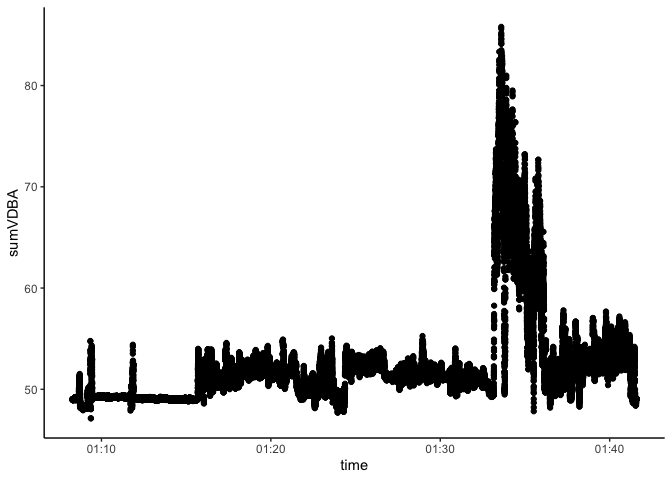
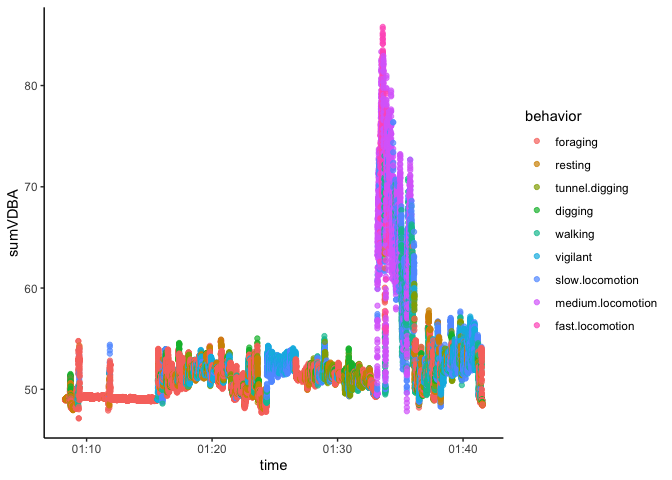
more read me

diff --git a/README.md b/README.md
@@ -25,7 +25,7 @@ You can install the development version of rabbit from
 
 ## Example
 
-This is a basic example which shows you how to solve a common problem:
+This is a basic example:
 
 ``` r
 library(rabbit)
@@ -38,70 +38,30 @@ library(dplyr)
 #> The following objects are masked from 'package:base':
 #> 
 #>     intersect, setdiff, setequal, union
-
-#Read file
-data <- arrow::read_parquet("tests/testthat/raw_Pic2Jan_50000.parquet") |> slice(1:1000)
-
-# Calcualte metrics
-data_metrics <- moving_window_calcs_2(data)
-
-data_metrics %>% slice(50:150)
-#> # A tibble: 101 × 26
-#>    time                meanX  meanY meanZ  maxx   maxy  maxz  minx   miny  minz
-#>    <dttm>              <dbl>  <dbl> <dbl> <dbl>  <dbl> <dbl> <dbl>  <dbl> <dbl>
-#>  1 2024-01-03 01:08:16 0.592 -0.317 0.713  0.61 -0.297 0.735 0.563 -0.328 0.688
-#>  2 2024-01-03 01:08:17 0.592 -0.317 0.713  0.61 -0.297 0.735 0.563 -0.328 0.688
-#>  3 2024-01-03 01:08:17 0.593 -0.317 0.712  0.61 -0.297 0.735 0.563 -0.328 0.688
-#>  4 2024-01-03 01:08:17 0.594 -0.317 0.713  0.61 -0.297 0.735 0.563 -0.328 0.688
-#>  5 2024-01-03 01:08:17 0.593 -0.317 0.713  0.61 -0.297 0.735 0.563 -0.328 0.688
-#>  6 2024-01-03 01:08:17 0.592 -0.317 0.714  0.61 -0.297 0.735 0.563 -0.328 0.688
-#>  7 2024-01-03 01:08:17 0.592 -0.317 0.714  0.61 -0.297 0.735 0.563 -0.328 0.688
-#>  8 2024-01-03 01:08:17 0.592 -0.316 0.714  0.61 -0.297 0.735 0.563 -0.328 0.688
-#>  9 2024-01-03 01:08:17 0.592 -0.316 0.714  0.61 -0.297 0.735 0.563 -0.328 0.688
-#> 10 2024-01-03 01:08:17 0.592 -0.316 0.714  0.61 -0.297 0.735 0.563 -0.328 0.688
-#> # ℹ 91 more rows
-#> # ℹ 16 more variables: sdx <dbl>, sdy <dbl>, sdz <dbl>, SMA <dbl>,
-#> #   minODBA <dbl>, maxODBA <dbl>, minVDBA <dbl>, maxVDBA <dbl>, sumODBA <dbl>,
-#> #   sumVDBA <dbl>, corXY <dbl>, corXZ <dbl>, corYZ <dbl>, skx <dbl>, sky <dbl>,
-#> #   skz <dbl>
 ```
 
-Speed comparison on test file, comparing 3 techniques
+super-fast version of the rolling window calculations:
 
-``` r
-# source("tests/testthat/doAccloop.R")
-# 
-# microbenchmark::microbenchmark(
-#   doAccloop_all(data),
-#   moving_window_calcs(data),
-#   moving_window_calcs_2(data)
-# )
-```
-
-Speed comparison on a big test file, comparing the 2 faster techniques
-
-``` r
-
-# df <- arrow::read_parquet('/Users/dfalster/GitHub/projects/Adams-Accelerometer_2024/data/Pic2Jan_S1.parquet')
-# nrow(df)
-```
-
-version 1
-
-``` r
-#system.time(moving_window_calcs(df))
-```
-
-version 2
+example file is less than one hour of a bilby called piccolo:
 
 ``` r
 df <- arrow::read_parquet("tests/testthat/raw_Pic2Jan_50000.parquet")
-system.time(dat <- moving_window_calcs_2(df))
-#>    user  system elapsed 
-#>   0.130   0.007   0.138
+nrow(df)
+#> [1] 50000
 ```
 
-## Identifying high sumODBA times
+pretty fast:
+
+``` r
+system.time(dat <- moving_window_calcs_2(df))
+#>    user  system elapsed 
+#>   0.304   0.015   0.326
+```
+
+## Identifying high sumVDBA times
+
+sumVDBA is the best measure we have of heat-generating movement or
+activities:
 
 ``` r
 library(ggplot2)
@@ -110,18 +70,25 @@ dat %>%
   geom_point() + theme_classic()
 ```
 
-<img src="man/figures/README-unnamed-chunk-6-1.png" width="100%" />
+<img src="man/figures/README-unnamed-chunk-4-1.png" width="100%" />
+
+Now can classify all these movements based on a pre-built classifier
+from a zoo animal:
 
 ``` r
 nighttime_activities <- classify_behaviors(dat, MSOM_path = "tests/testthat/MSOM_8by7.rda")
 
 nighttime_activities <- nighttime_activities %>%
   mutate(behavior = forcats::fct_reorder(behavior, sumVDBA, .fun = median, na.rm = TRUE))
+```
 
+and we can plot energy use and estimated activity through time
+
+``` r
 nighttime_activities %>%
   filter(!is.na(behavior)) %>%
   ggplot(aes(x = time, y = sumVDBA, col = behavior)) +
   geom_point(alpha = 0.7) + theme_classic()
 ```
 
-<img src="man/figures/README-unnamed-chunk-7-1.png" width="100%" />
+<img src="man/figures/README-unnamed-chunk-6-1.png" width="100%" />
